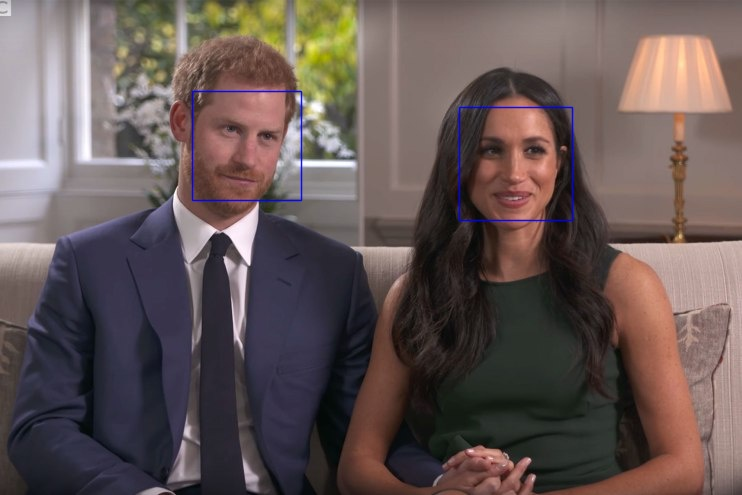
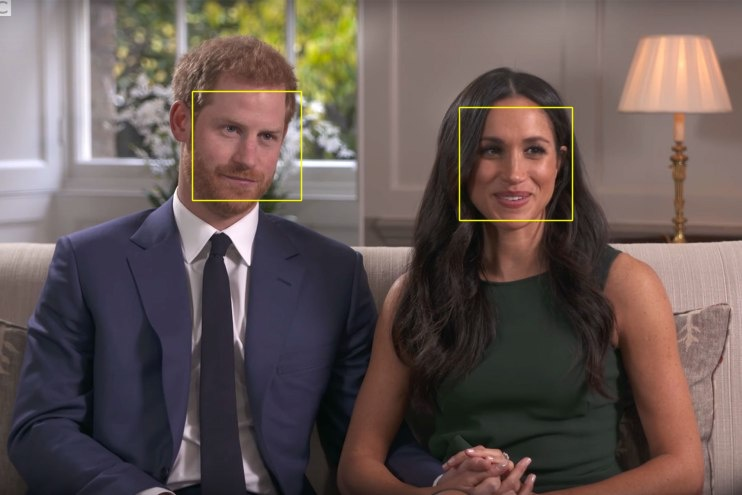
Updated output colour because Alex has tired eyes :)

Changed region(s): [[0.5889, 0.2121, 0.7749, 0.4545], [0.248, 0.1818, 0.434, 0.4242]]

diff --git a/facedetect/handler.go b/facedetect/handler.go
@@ -97,7 +97,7 @@ func (s BySize) Less(i, j int) bool {
 	return s[i].Size().X > s[j].Size().X && s[i].Size().Y > s[j].Size().Y
 }
 
-var blue = color.RGBA{0, 0, 255, 0}
+var yellow = color.RGBA{255, 255, 0, 0}
 
 // FaceProcessor detects the position of a face from an input image
 type FaceProcessor struct {
@@ -157,9 +157,6 @@ func (fp *FaceProcessor) DetectFaces(file string) (faces []image.Rectangle, boun
 
 			if len(eyes) > 0 || len(glasses) > 0 {
 				fcs = append(fcs, f)
-
-				gocv.Rectangle(img, f, blue, 1)
-				gocv.IMWrite("./detect.jpg", img)
 			}
 		}
 
@@ -175,7 +172,7 @@ func (fp *FaceProcessor) DrawFaces(file string, faces []image.Rectangle) ([]byte
 	defer img.Close()
 
 	for _, r := range faces {
-		gocv.Rectangle(img, r, blue, 1)
+		gocv.Rectangle(img, r, yellow, 1)
 	}
 
 	filename := fmt.Sprintf("/tmp/%d.jpg", time.Now().UnixNano())
